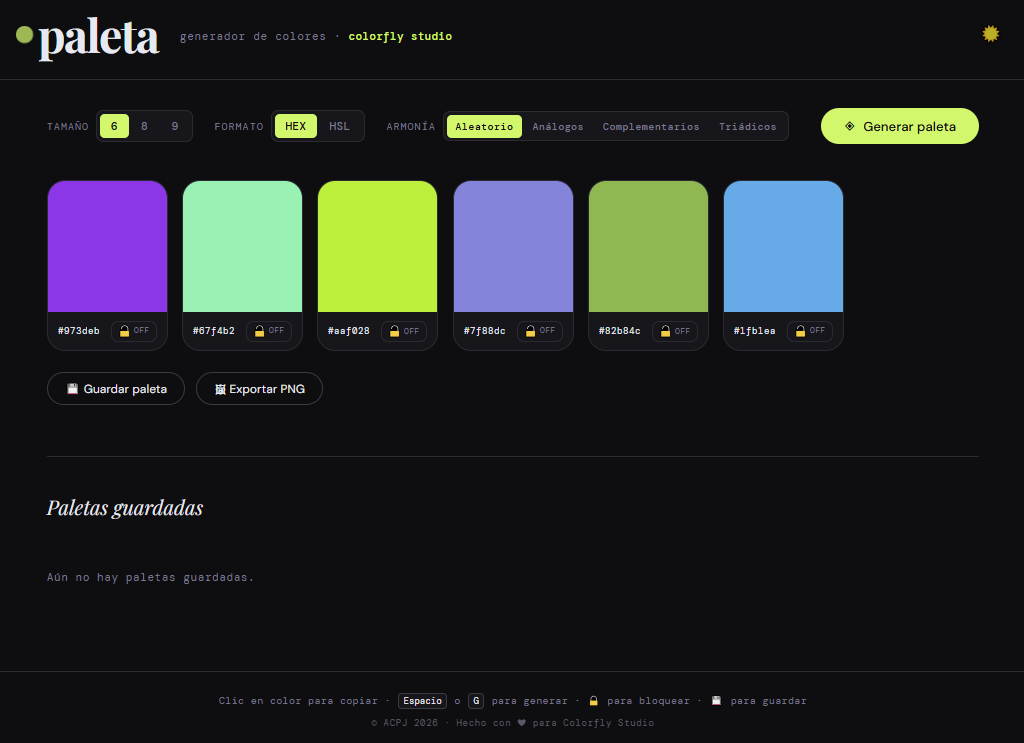
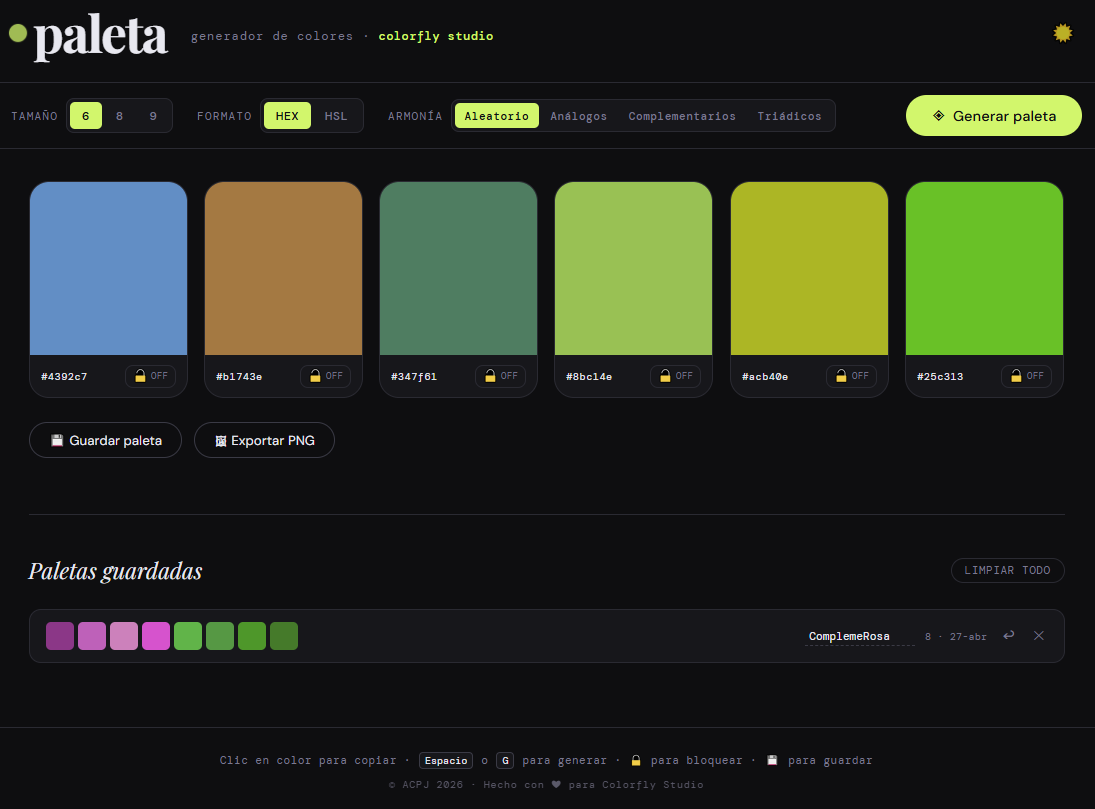
feat & style: barra de controles fija arriba - actualizada captura para readme

diff --git a/css/styles.css b/css/styles.css
@@ -177,13 +177,23 @@ body {
 }
 
 /* =============================================
-   CONTROLS
+   CONTROLS BAR (sticky)
    ============================================= */
+.controls-bar {
+  position: sticky;
+  top: 0;
+  z-index: 100;
+  background: var(--bg);
+  border-bottom: 1px solid var(--border);
+  padding: 0.75rem 2rem;
+}
+
 .controls {
+  max-width: 1100px;
+  margin: 0 auto;
   display: flex;
   align-items: center;
   gap: 1.5rem;
-  margin-bottom: 2.5rem;
   flex-wrap: wrap;
 }
 
@@ -772,11 +782,11 @@ kbd.footer-key {
 .main-content { padding: 1.2rem 0.9rem 6rem; }
 
 /* Controls mobile: columna */
+.controls-bar { padding: 0.75rem 1rem; }
 .controls {
   flex-direction: column;
   align-items: flex-start;
   gap: 0.9rem;
-  margin-bottom: 1.5rem;
 }
 
 /* Espacio extra en footer para que el FAB no lo tape */
@@ -835,11 +845,11 @@ kbd.footer-key {
   .main-content { padding: 2rem 2rem 4rem; }
 
   /* Controls en fila */
+  .controls-bar { padding: 0.75rem 2rem; }
   .controls {
     flex-direction: row;
     align-items: center;
     gap: 1.5rem;
-    margin-bottom: 2.5rem;
   }
 
   .site-footer { padding-bottom: 2.5rem; }
@@ -860,7 +870,7 @@ kbd.footer-key {
 
   /* Grid desktop */
   .palette-grid {
-    grid-template-columns: repeat(auto-fill, minmax(140px, 1fr));
+    grid-template-columns: repeat(auto-fill, minmax(155px, 1fr));
     gap: 1rem;
   }
 
@@ -883,7 +893,7 @@ kbd.footer-key {
    ============================================= */
 @media (min-width: 901px) {
   .palette-grid {
-    grid-template-columns: repeat(auto-fill, minmax(130px, 1fr));
+    grid-template-columns: repeat(auto-fill, minmax(155px, 1fr));
   }
 }
 

diff --git a/index.html b/index.html
@@ -27,9 +27,8 @@
     </div>
   </header>
 
-  <main class="main-content">
-
-    <!-- CONTROLS -->
+  <!-- BARRA DE CONTROLES FIJA -->
+  <div class="controls-bar">
     <section class="controls" aria-label="Controles de generación">
 
       <div class="control-group">
@@ -69,6 +68,9 @@
       </button>
 
     </section>
+  </div>
+
+  <main class="main-content">
 
     <!-- PALETTE GRID -->
     <section class="palette-section" aria-label="Paleta de colores generada">
